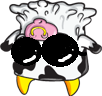
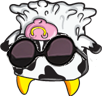
New Skins

Changed region(s): [[0.0588, 0.3438, 0.8529, 0.7188], [0.8824, 0.625, 0.9118, 0.6562]]

diff --git a/src/spacecow/engine/TextureHandler.java b/src/spacecow/engine/TextureHandler.java
@@ -40,7 +40,7 @@ public class TextureHandler{
 	private Texture arrowKeys;
 	private Texture shiftKey;
 	
-	private Texture optionsTex, startGameTex, highScoreTex, cowsad, cowCool, dragonCow;
+	private Texture optionsTex, startGameTex, highScoreTex, cowSexy, cowCool, dragonCow;
 	
 	
 	public TextureHandler(){
@@ -55,10 +55,10 @@ public class TextureHandler{
 		 star4Tex = loadTexture("Star4.png");
 		 star5Tex = loadTexture("Star5.png");
 		
-		 cowTex = loadTexture("cow.png");
-		 cowsad = loadTexture("Moosad.png");
+		 cowTex = loadTexture("Moo.png");
+		 cowSexy = loadTexture("MooSexy.png");
 		 cowCool = loadTexture("MooCool.png");
-		 dragonCow = loadTexture("dragonMooIsh.png");
+		 dragonCow = loadTexture("MooDragonIsh.png");
 		 
 		 starBuffTex = loadTexture("StarBuff.png");
 		 cookieTex = loadTexture("Cookie.png");
@@ -205,10 +205,10 @@ public class TextureHandler{
 		this.cowTex = tex;
 	}
 	public Texture getCowsad() {
-		return cowsad;
+		return cowSexy;
 	}
 	public void setCowsad(Texture cowsad) {
-		this.cowsad = cowsad;
+		this.cowSexy = cowsad;
 	}
 	public Texture getCowCool() {
 		return cowCool;

diff --git a/src/spacecow/serverconnection/ServerConnection.java b/src/spacecow/serverconnection/ServerConnection.java
@@ -26,7 +26,7 @@ public class ServerConnection implements Runnable {
 		gson = new Gson();
 		this.game = game;
 		try {
-			serverCon = new Socket("localhost", 10000);
+			serverCon = new Socket("gurey.synology.me", 10000);
 			out = new PrintWriter(serverCon.getOutputStream());
 			in = new BufferedReader(new InputStreamReader(serverCon.getInputStream()));
 			connected = true;

diff --git a/src/spacecow/engine/Game.java b/src/spacecow/engine/Game.java
@@ -242,9 +242,11 @@ public class Game {
 			resetGame();
 			System.out.println("Game reset");
 		}
-
-		serverConnection.closeAllConnections();
-		System.out.println("Connections Closed!");
+		
+		if (serverConnection != null) {
+			serverConnection.closeAllConnections();
+			System.out.println("Connections Closed!");
+		}
 		Display.destroy();
 	}
 

diff --git a/src/spacecow/engine/Main.java b/src/spacecow/engine/Main.java
@@ -5,8 +5,8 @@ public class Main {
 	public static void main(String[] args) {
 		
 //		Load natives to be able to run the rest of the program.
-//		LoadNative nativeLoader = new LoadNative();
-//		nativeLoader.loadNatives();
+		LoadNative nativeLoader = new LoadNative();
+		nativeLoader.loadNatives();
 		new Game().start();
 	}
 }

diff --git a/src/spacecow/gui/Options.java b/src/spacecow/gui/Options.java
@@ -70,6 +70,7 @@ public class Options extends Menu{
 			tex = textureHandler.getDragonCow();
 			break;
 		default:
+			tex = textureHandler.getCowTex();
 			break;
 		}
 		player.setNeutralCow(tex);
